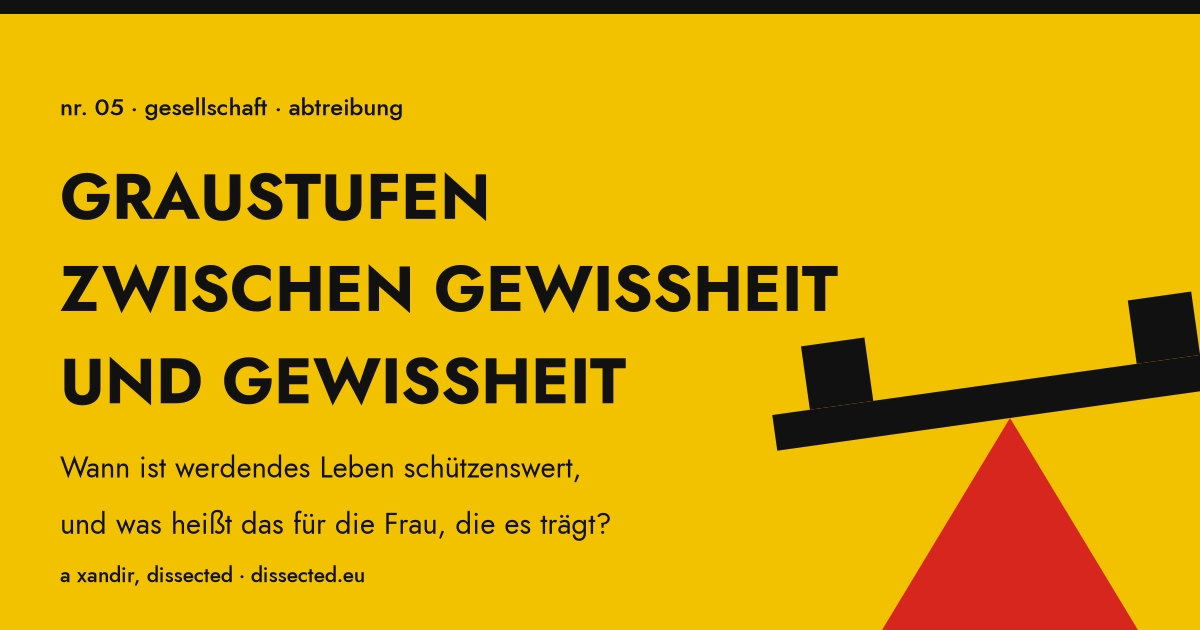
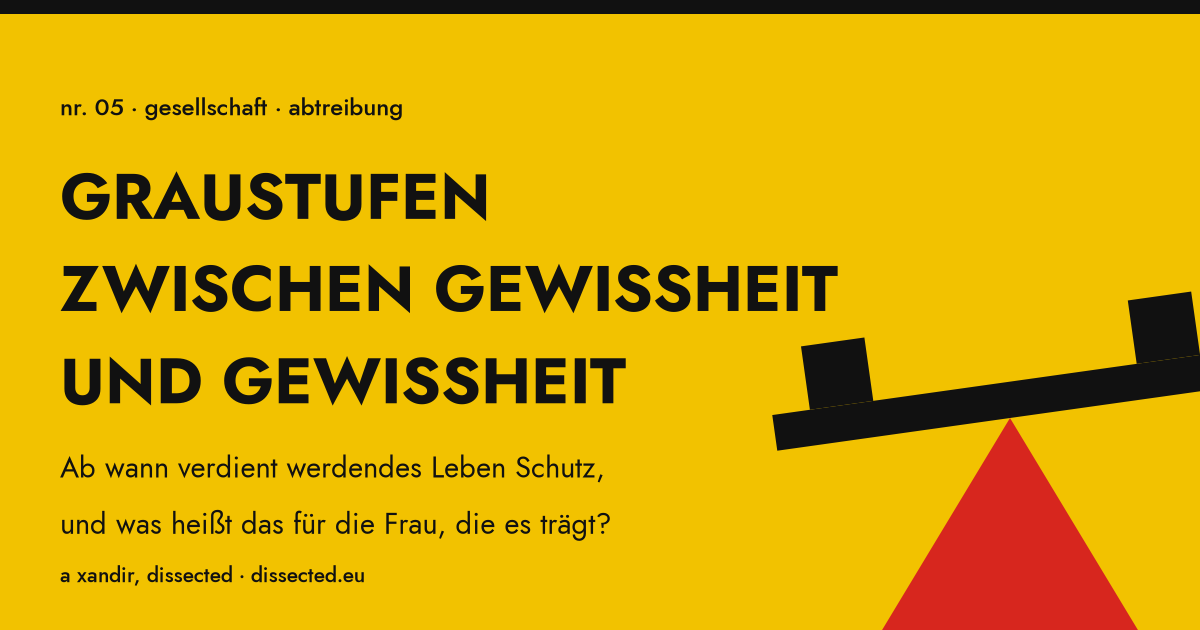
№ 05: Beschreibung und Vorschaubild mit der Frage des Autors
Meta-, Open-Graph- und JSON-LD-Beschreibung sowie Unterzeile im Vorschaubild: „Ab wann verdient werdendes Leben Schutz, und was heißt das für die Frau, die es trägt?“

Changed region(s): [[0.0308, 0.7238, 0.4933, 0.7841]]

diff --git a/de/analysen/005-graustufen-zwischen-gewissheit-und-gewissheit.html b/de/analysen/005-graustufen-zwischen-gewissheit-und-gewissheit.html
@@ -4,7 +4,7 @@
 <meta charset="utf-8">
 <meta name="viewport" content="width=device-width,initial-scale=1">
 <title>Graustufen zwischen Gewissheit und Gewissheit – Abtreibung, Werte und Urteil | dissected</title>
-<meta name="description" content="Wann ist werdendes Leben schützenswert, und was heißt das für die Frau, die es trägt? Die Antwort ist eine Abwägung von Werten. Beide Seiten bestehen eine Prüfung.">
+<meta name="description" content="Ab wann verdient werdendes Leben Schutz, und was heißt das für die Frau, die es trägt? Jede Antwort darauf ist eine Abwägung von Werten. Beide Seiten bestehen eine Prüfung.">
 <script>(function(){try{var m=localStorage.getItem('modus');if(m==='dunkel'||(!m&&window.matchMedia('(prefers-color-scheme: dark)').matches)){document.documentElement.setAttribute('data-theme','dark')}}catch(e){}})();</script>
 <link rel="stylesheet" href="../../styles.css">
 <!-- seo -->
@@ -17,14 +17,14 @@
 <meta property="og:locale" content="de_DE">
 <meta property="og:url" content="https://www.dissected.eu/de/analysen/005-graustufen-zwischen-gewissheit-und-gewissheit.html">
 <meta property="og:title" content="Graustufen zwischen Gewissheit und Gewissheit">
-<meta property="og:description" content="Wann ist werdendes Leben schützenswert, und was heißt das für die Frau, die es trägt? Die Antwort ist eine Abwägung von Werten. Beide Seiten bestehen eine Prüfung.">
+<meta property="og:description" content="Ab wann verdient werdendes Leben Schutz, und was heißt das für die Frau, die es trägt? Jede Antwort darauf ist eine Abwägung von Werten. Beide Seiten bestehen eine Prüfung.">
 <meta property="og:image" content="https://www.dissected.eu/og/005-graustufen.png">
 <meta property="og:image:width" content="1200">
 <meta property="og:image:height" content="630">
 <meta property="og:image:alt" content="Graustufen zwischen Gewissheit und Gewissheit – № 05, gesellschaft, abtreibung">
 <meta name="twitter:card" content="summary_large_image">
 <meta name="twitter:title" content="Graustufen zwischen Gewissheit und Gewissheit">
-<meta name="twitter:description" content="Wann ist werdendes Leben schützenswert, und was heißt das für die Frau, die es trägt? Die Antwort ist eine Abwägung von Werten. Beide Seiten bestehen eine Prüfung.">
+<meta name="twitter:description" content="Ab wann verdient werdendes Leben Schutz, und was heißt das für die Frau, die es trägt? Jede Antwort darauf ist eine Abwägung von Werten. Beide Seiten bestehen eine Prüfung.">
 <meta name="twitter:image" content="https://www.dissected.eu/og/005-graustufen.png">
 <meta name="author" content="a xandir">
 <meta property="article:author" content="https://www.dissected.eu/de/ueber.html">
@@ -35,7 +35,7 @@
 <meta property="article:tag" content="Ethik">
 <meta property="article:tag" content="§ 218">
 <meta name="keywords" content="Abtreibung, Schwangerschaftsabbruch, § 218, Ethik, Lebensschutz, Selbstbestimmung, Bewusstsein, Toleranz, Umfragen">
-<script type="application/ld+json">{"@context": "https://schema.org", "@type": "Article", "headline": "Graustufen zwischen Gewissheit und Gewissheit", "description": "Wann ist werdendes Leben schützenswert, und was heißt das für die Frau, die es trägt? Die Antwort ist eine Abwägung von Werten. Beide Seiten bestehen eine Prüfung.", "image": "https://www.dissected.eu/og/005-graustufen.png", "inLanguage": "de", "datePublished": "2026-11-13", "dateModified": "2026-11-13", "articleSection": "gesellschaft", "keywords": "Abtreibung, Schwangerschaftsabbruch, § 218, Ethik, Lebensschutz, Selbstbestimmung, Bewusstsein, Toleranz, Umfragen", "author": {"@type": "Person", "name": "a xandir", "url": "https://www.dissected.eu/de/ueber.html"}, "publisher": {"@type": "Person", "name": "a xandir", "url": "https://www.dissected.eu/de/ueber.html"}, "mainEntityOfPage": "https://www.dissected.eu/de/analysen/005-graustufen-zwischen-gewissheit-und-gewissheit.html", "isAccessibleForFree": true, "creativeWorkStatus": "Draft"}</script>
+<script type="application/ld+json">{"@context": "https://schema.org", "@type": "Article", "headline": "Graustufen zwischen Gewissheit und Gewissheit", "description": "Ab wann verdient werdendes Leben Schutz, und was heißt das für die Frau, die es trägt? Jede Antwort darauf ist eine Abwägung von Werten. Beide Seiten bestehen eine Prüfung.", "image": "https://www.dissected.eu/og/005-graustufen.png", "inLanguage": "de", "datePublished": "2026-11-13", "dateModified": "2026-11-13", "articleSection": "gesellschaft", "keywords": "Abtreibung, Schwangerschaftsabbruch, § 218, Ethik, Lebensschutz, Selbstbestimmung, Bewusstsein, Toleranz, Umfragen", "author": {"@type": "Person", "name": "a xandir", "url": "https://www.dissected.eu/de/ueber.html"}, "publisher": {"@type": "Person", "name": "a xandir", "url": "https://www.dissected.eu/de/ueber.html"}, "mainEntityOfPage": "https://www.dissected.eu/de/analysen/005-graustufen-zwischen-gewissheit-und-gewissheit.html", "isAccessibleForFree": true, "creativeWorkStatus": "Draft"}</script>
 <script type="application/ld+json">{"@context": "https://schema.org", "@type": "BreadcrumbList", "itemListElement": [{"@type": "ListItem", "position": 1, "name": "a xandir, dissected", "item": "https://www.dissected.eu/de/index.html"}, {"@type": "ListItem", "position": 2, "name": "archiv · gesellschaft", "item": "https://www.dissected.eu/de/archiv.html#gesellschaft"}, {"@type": "ListItem", "position": 3, "name": "№ 05 · Graustufen zwischen Gewissheit und Gewissheit", "item": "https://www.dissected.eu/de/analysen/005-graustufen-zwischen-gewissheit-und-gewissheit.html"}]}</script>
 <!-- /seo -->
 <script data-goatcounter="https://xandir.goatcounter.com/count" async src="/zaehler.js"></script>

diff --git a/charts/005_vorschau.py b/charts/005_vorschau.py
@@ -29,7 +29,7 @@ for mitte in (-165, 165):                                                       
 
 ax.text(60, 540, 'nr. 05 · gesellschaft · abtreibung', fontsize=17, color=FARBEN['schwarz'], fontproperties=SCHRIFT[500], va='top')
 ax.text(60, 480, 'GRAUSTUFEN\nZWISCHEN GEWISSHEIT\nUND GEWISSHEIT', fontsize=46, color=FARBEN['schwarz'], fontproperties=SCHRIFT[700], va='top', linespacing=1.0)
-ax.text(60, 190, 'Wann ist werdendes Leben schützenswert,\nund was heißt das für die Frau, die es trägt?', fontsize=21, color=FARBEN['schwarz'], fontproperties=SCHRIFT[400], va='top', linespacing=1.35)
+ax.text(60, 190, 'Ab wann verdient werdendes Leben Schutz,\nund was heißt das für die Frau, die es trägt?', fontsize=21, color=FARBEN['schwarz'], fontproperties=SCHRIFT[400], va='top', linespacing=1.35)
 ax.text(60, 40, 'a xandir, dissected · dissected.eu', fontsize=15, color=FARBEN['schwarz'], fontproperties=SCHRIFT[500], va='bottom')
 f.savefig(os.path.join(OUT, '005-graustufen.png'), dpi=100, facecolor=FARBEN['gelb']); plt.close(f)
 print('og/005-graustufen.png erzeugt')
